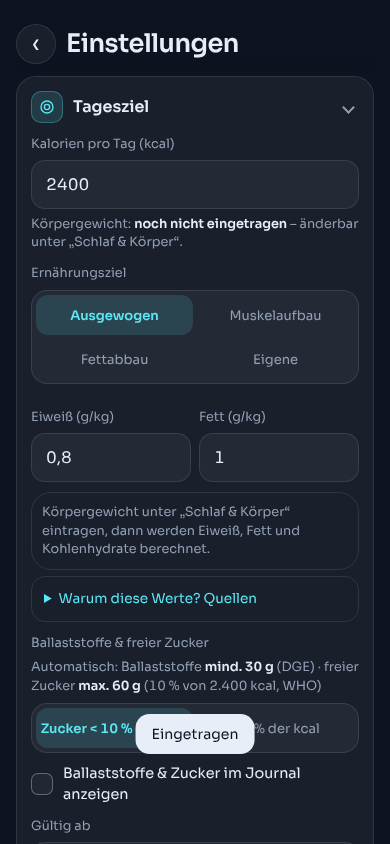
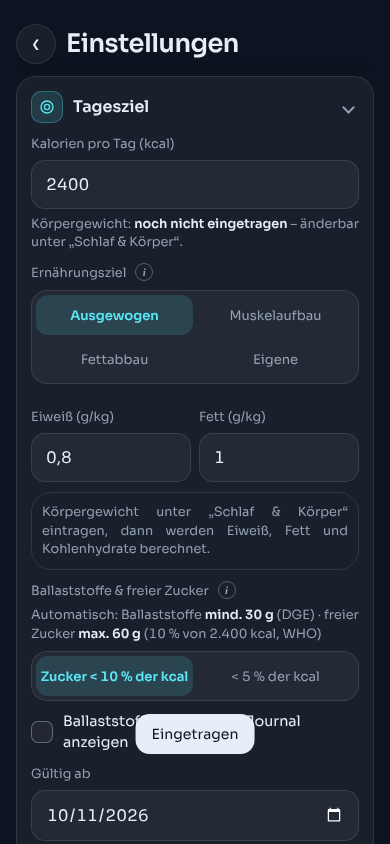
v1.21.0: slice weights for cold cuts and cheese (LARN defaults, OFF serving, package calculator)
Claude-Session: https://claude.ai/code/session_01DWEeTQdt3qYVJioJf4jifr

diff --git a/js/app.js b/js/app.js
@@ -3,7 +3,7 @@
    nach außen: Barcode-Abfrage bei Open Food Facts (nur der Barcode wird übertragen). */
 'use strict';
 
-const APP_VERSION = '1.20.0';
+const APP_VERSION = '1.21.0';
 const STORE_KEY = 'ct.v1';
 const BACKUP_REMIND_DAYS = 7;
 const MEALS = [
@@ -13,7 +13,7 @@ const MEALS = [
   { id: 'snack', label: 'Snacks' },
 ];
 const NUTRIENTS = ['k', 'p', 'c', 'f', 'fi', 'su', 'fs']; // fs = freier Zucker (WHO-Definition), Teil von su
-const OFF_FIELDS = 'code,product_name,product_name_de,brands,nutriments,serving_quantity,quantity,allergens_tags,ingredients_analysis_tags';
+const OFF_FIELDS = 'code,product_name,product_name_de,brands,nutriments,serving_quantity,serving_size,product_quantity,quantity,allergens_tags,ingredients_analysis_tags';
 
 /* ---------- Speicher ---------- */
 function emptyState() {
@@ -24,6 +24,7 @@ function emptyState() {
     sug: { enabled: true, time: '16:00', count: 2, priority: 'protein', minKcal: 200 },
     diet: { type: 'all', allergens: [] },
     sugRatings: {}, // Bewertung je Lebensmittel-ID: -3 … +3; ab -2 nicht mehr vorgeschlagen
+    slices: {}, // gelerntes Scheibengewicht je Lebensmittel-ID (g)
     water: { enabled: true, goal: 1500, log: {} }, // log: { 'JJJJ-MM-TT': [ml, ml, …] }
     supp: SUPP_DEFAULTS(),
     timeline: TL_DEFAULTS(),
@@ -94,6 +95,7 @@ function normalizeState(data) {
   s.diet = Object.assign(emptyState().diet, data.diet || {});
   if (!Array.isArray(s.diet.allergens)) s.diet.allergens = [];
   if (!s.sugRatings || typeof s.sugRatings !== 'object') s.sugRatings = {};
+  if (!s.slices || typeof s.slices !== 'object') s.slices = {};
   s.water = Object.assign(emptyState().water, data.water || {});
   if (!s.water.log || typeof s.water.log !== 'object') s.water.log = {};
   s.supp = suppNormalize(data.supp);
@@ -971,6 +973,38 @@ function pieceSize(food) {
   if (/^Kartoffel (geschält|ungeschält), roh/.test(n)) return { grams: 100, label: '1 kleine Kartoffel' };
   return null;
 }
+/* ---------- Scheibengewicht für Aufschnitt und Käse ----------
+   Richtwerte abgeleitet aus den LARN-Haushaltsmaßen (SINU 2024 via ATS Brescia): 50 g Aufschnitt = 5–6 Scheiben
+   Salami/Bresaola (≈ 9 g), 3–4 Scheiben Schinken (≈ 15 g), 2 Scheiben Mortadella (25 g); Käse: 2 Scheiben
+   „tipo formaggio fuso“ = 50 g (25 g). Echte Packungen weichen ab → eigener Wert aus Packung/Scheibenzahl hat Vorrang. */
+const SLICE_RULES = [
+  [/Salami|Bresaola|Chorizo|Cervelat|Plockwurst|Pfefferbei|Landjäger|Coppa|Rohwurst|Pepperoni|Mettwurst(?!.*(?:Streich|grob))|Sucuk/i, 9, 'Salami/Rohwurst'],
+  [/Schinken(?!wurst)|Putenbrust|Hähnchenbrust.*(?:Aufschnitt|geräuchert|gegart)|Kassler|Kasseler|Bacon|Speck|Pastrami|Roastbeef/i, 15, 'Schinken/Brustaufschnitt'],
+  [/Mortadella|Lyoner|Fleischwurst|Bierschinken|Jagdwurst|Leberkäse|Fleischkäse|Gelbwurst|Schinkenwurst|Sülze|Aspik|Blutwurst|Zungenwurst|Pressack|Mortadella/i, 25, 'Brühwurst'],
+  [/Gouda|Edamer|Emmentaler|Tilsiter|Butterkäse|Leerdammer|Maasdamer|Bergkäse|Gruy[eè]re|Appenzeller|Schmelzkäse|Scheiblette|Cheddar|Provolone|Raclette|Esrom|Havarti|Käse.*Scheiben|Scheibenkäse/i, 25, 'Schnittkäse'],
+];
+function offSliceG(s) {
+  if (!s || !/scheibe|slice|tranche|fetta|rebanada/i.test(s)) return null;
+  const m = String(s).match(/(\d+(?:[.,]\d+)?)\s*g\b/i); const g = m ? num(m[1]) : null;
+  const k = String(s).match(/^\s*(\d+)\s*(?:scheibe|slice|tranche|fetta)/i); const n = k ? +k[1] : 1;
+  return g && g > 0 && g < 200 ? Math.round(g / n * 10) / 10 : null;
+}
+function sliceRule(food) {
+  const n = food.n || '';
+  if (/gerieben|Reibe|Streich|Aufstrich|Pulver|Würfel|Pastete|Suppe|Brötchen|Sandwich|Pizza/i.test(n)) return null;
+  const id = String(food.ref || food.id || '');
+  if (id.startsWith('bls:') && !'WUM'.includes(id[4])) return null; // nur Wurst, Fleisch-Aufschnitt, Käse
+  return SLICE_RULES.find(([rx]) => rx.test(n)) || null;
+}
+function sliceInfo(food) {
+  const id = food.ref || food.id;
+  if (id && state.slices[id]) return { g: state.slices[id], src: 'own' };
+  const live = id && String(id).startsWith('off:') ? state.offCache[String(id).slice(4)] : null;
+  const og = (live && live.sliceG) || food.sliceG;
+  if (og) return { g: og, src: 'off' };
+  const r = sliceRule(food);
+  return r ? { g: r[1], src: 'larn', kind: r[2] } : null;
+}
 function portionOptions(food) {
   const out = [];
   let base = food;
@@ -989,6 +1023,8 @@ function portionOptions(food) {
   const pc = factor === 1 ? pieceSize(food) : null;
   if (pc && !out.some((o) => o.grams === pc.grams)) out.push({ grams: pc.grams, label: pc.label, hint: 'aus LARN-Haushaltsmaß', larn: true });
   if (food.serving && !out.some((o) => o.grams === Math.round(food.serving))) out.push({ grams: r1n(food.serving), label: food.src === 'off' ? 'Packungsportion' : food.src === 'recipe' ? '1 Rezeptportion' : '1 Portion', hint: food.src === 'off' ? 'laut Open Food Facts' : 'eigene Angabe' });
+  const sl = sliceInfo(food);
+  if (sl && !out.some((o) => o.grams === sl.g)) out.unshift({ grams: sl.g, label: '1 Scheibe', hint: sl.src === 'own' ? 'aus deiner Packung berechnet' : sl.src === 'off' ? 'laut Open Food Facts' : `Richtwert ${sl.kind} (LARN-Haushaltsmaß)`, larn: sl.src === 'larn', slice: true });
   return out;
 }
 // Lebensmittel, deren Portion sich direkt auf den gegarten Zustand bezieht (z. B. Hülsenfrüchte gekocht)
@@ -1018,6 +1054,14 @@ function openAmount(food, opts = {}) {
     <label for="grams">Menge in ${U === 'ml' ? 'Millilitern' : 'Gramm'}</label>
     <input id="grams" type="text" inputmode="decimal" value="${r1(defGrams)}">
     <div class="chips portions" id="portions">${portionOptions(food).map((o, i) => `<button type="button" class="chip" data-pi="${i}" title="${esc(o.hint)}">${esc(o.label)} · ${r1(o.grams)} ${U}</button>`).join('')}${recentHit && recentHit.lastGrams && !edit ? `<button type="button" class="chip" data-last="${recentHit.lastGrams}">Zuletzt · ${r1(recentHit.lastGrams)} ${U}</button>` : ''}</div>
+    <button type="button" class="linkbtn" id="slCalcBtn">Scheibengewicht aus Packung berechnen</button>
+    <div class="slcalc" id="slCalc" hidden>
+      <div class="row">
+        <div><label for="slPack">Packung (g)</label><input id="slPack" inputmode="decimal" value="${(state.offCache[String(foodId).slice(4)] || {}).pq || food.pq || ''}" placeholder="z. B. 200"></div>
+        <div><label for="slN">Scheiben</label><input id="slN" inputmode="numeric" placeholder="z. B. 10"></div>
+      </div>
+      <div class="spread" style="margin-top:8px"><span class="small muted" id="slRes">= ? g pro Scheibe</span><button type="button" class="btn secondary" id="slSave">Übernehmen</button></div>
+    </div>
     ${portionOptions(food).some((o) => o.larn) ? '<p class="small muted portion-note">Mehrfach tippen = mehrere Portionen. Standardportionen: SINU, LARN 2024 (Rohgewicht, essbarer Anteil).</p>' : ''}
     <div class="nutri" id="nutri"></div>
     <label for="meal">Mahlzeit</label>
@@ -1037,6 +1081,14 @@ function openAmount(food, opts = {}) {
   };
   g.oninput = upd; upd();
   const pOpts = portionOptions(food);
+  const slRes = () => { const p = num($('#slPack').value), n = num($('#slN').value); const v = p && n ? Math.round(p / n * 10) / 10 : null; $('#slRes').textContent = v ? `= ${r1(v)} g pro Scheibe` : '= ? g pro Scheibe'; return v; };
+  $('#slCalcBtn').onclick = () => { const c = $('#slCalc'); c.hidden = !c.hidden; if (!c.hidden) $('#slN').focus(); };
+  $('#slPack').oninput = slRes; $('#slN').oninput = slRes;
+  $('#slSave').onclick = () => {
+    const v = slRes(); if (!v || v > 500) { toast('Bitte Packungsgewicht und Anzahl Scheiben eingeben.'); return; }
+    state.slices[foodId] = v; save(); toast(`1 Scheibe = ${r1(v)} g gespeichert`);
+    const cur = $('#grams').value; openAmount(food, opts); $('#grams').value = cur; $('#grams').dispatchEvent(new Event('input'));
+  };
   let lastChip = null, mult = 0;
   document.querySelectorAll('#portions [data-pi]').forEach((b) => b.onclick = () => {
     const o = pOpts[+b.dataset.pi];
@@ -1214,6 +1266,8 @@ async function lookupBarcode(code) {
       k, p: num(nm.proteins_100g) || 0, c: num(nm.carbohydrates_100g) || 0, f: num(nm.fat_100g) || 0,
       fi: num(nm.fiber_100g) || 0, su: num(nm.sugars_100g) || 0, fs: num(nm['added-sugars_100g']), ...offDiet(p),
       serving: num(p.serving_quantity) || null,
+      pq: num(p.product_quantity) || null,
+      sliceG: offSliceG(p.serving_size),
       liq: /\d\s*(ml|cl|l)\b/i.test(p.quantity || ''),
     };
     state.offCache[code] = food; save();

diff --git a/css/style.css b/css/style.css
@@ -532,3 +532,6 @@ label.sw input:checked::after { transform: translateX(18px); }
 
 /* Blocksatz für Fließtext */
 p, .info-body, .info-src, .sp-hint, .caf-note, .refs li { text-align: justify; -webkit-hyphens: auto; hyphens: auto; }
+.linkbtn { background: none; border: 0; padding: 6px 0; margin-top: 4px; color: var(--accent); font: inherit; font-size: 0.78rem; cursor: pointer; }
+.slcalc { margin-top: 4px; padding: 10px 12px; border-radius: 14px; background: var(--panel); border: 1px solid var(--line); }
+.slcalc label { margin-top: 0; }

diff --git a/sw.js b/sw.js
@@ -1,6 +1,6 @@
 /* Service Worker: macht die App offline nutzbar. Speichert nur die App-Dateien,
    keine Nutzerdaten. Bei jeder Änderung an den Dateien CACHE-Version erhöhen. */
-const CACHE = 'ct-cache-v39';
+const CACHE = 'ct-cache-v40';
 const ASSETS = [
   './',
   'index.html',

diff --git a/README.md b/README.md
@@ -21,6 +21,7 @@ Ein schlanker Kalorien-Tracker als Web-App (PWA) fürs iPhone. Er läuft komplet
 - Koffein-Getränke tragen auf Wunsch kcal ins Journal (Snacks) und ml in den Wasserzähler ein (pro Eintrag und als Standard in den Einstellungen schaltbar; Bearbeiten/Löschen bleibt synchron)
 - Ballaststoffe & Zucker: Ziele automatisch aus dem Ernährungsziel (DGE ≥ 30 g Ballaststoffe; freier Zucker < 10 % bzw. 5 % der kcal nach WHO), Anzeige im Journal optional; freier Zucker im BLS per Heuristik abgeleitet (tools/convert_bls.py), natürlicher Zucker separat
 - Alkohol-Tracker: geschätzter Blutalkohol (Widmark, Geschlecht und Gewicht aus „Schlaf & Körper“), Kurve mit 0,5-‰-Linie, „0,0 ‰ ab“, kcal ins Journal; ein-/ausblendbar; nicht zur Beurteilung der Fahrtüchtigkeit
+- Scheibengewicht für Wurst und Käse: Richtwert (LARN-Haushaltsmaße), Open-Food-Facts-Portion „Scheibe“ oder eigener Wert aus Packungsgewicht ÷ Scheibenzahl
 - Supplement-Tracker: Pillen-Leiste im Journal (Tippen = genommen, erneut Tippen = zurücknehmen), Erinnerungskarte beim Öffnen der App für alle noch offenen Supplements („Alles genommen“, „Später“ = 1 Stunde), Einstellungen mit Menge/Einheit, täglich / jeden 2. Tag / Wochentage und Mahlzeit oder Uhrzeit; Voreinstellung Kreatin 7 g, Vitamin B12, Omega-3, Eisen (aus). Hinweise je Supplement mit Quellen (AIS, NIH ODS, Stoffel 2017); keine Benachrichtigung bei geschlossener App (ohne Server nicht möglich)
 - Abend-Vorschläge ab einstellbarer Uhrzeit: 1–3 Lebensmittel mit Mengen, die die offenen Ziele treffen (Priorität Kalorien / Eiweiß / ausgewogen), bevorzugt aus eigenen Einträgen, bewertbar mit 👍/👎
 - Ernährungsform (vegetarisch, vegan) und Allergie-Filter für die Vorschläge
